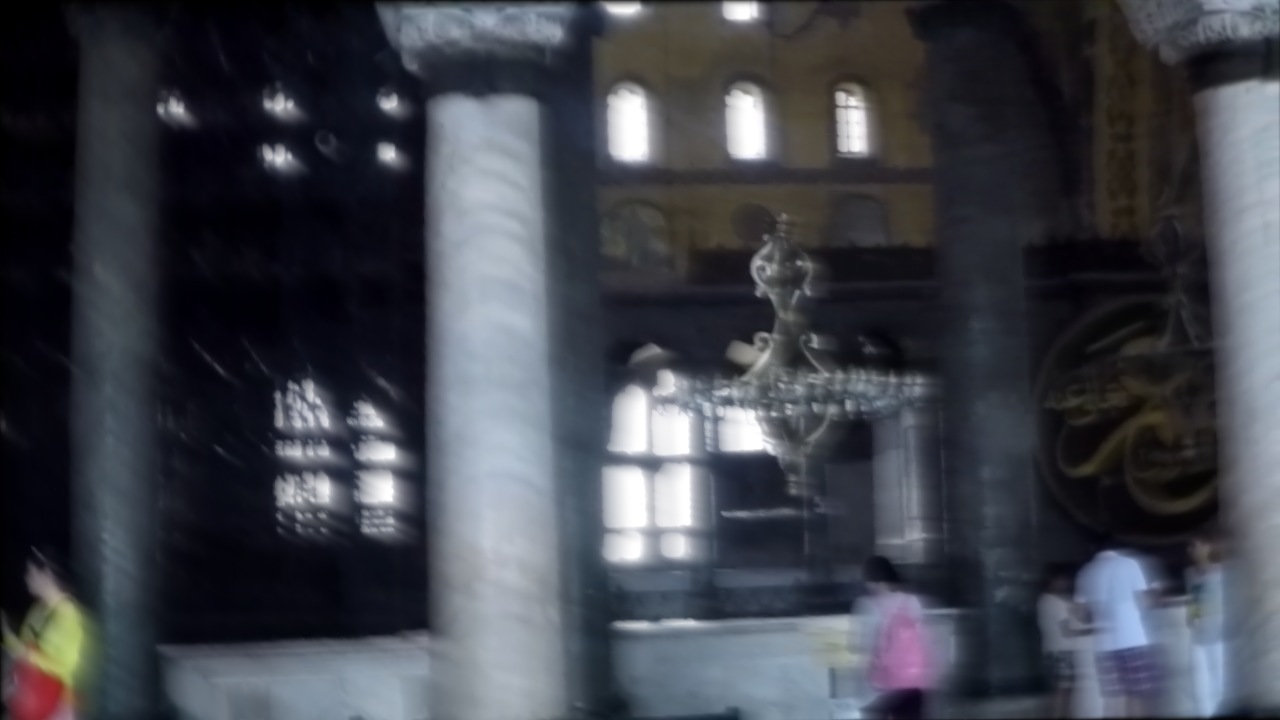
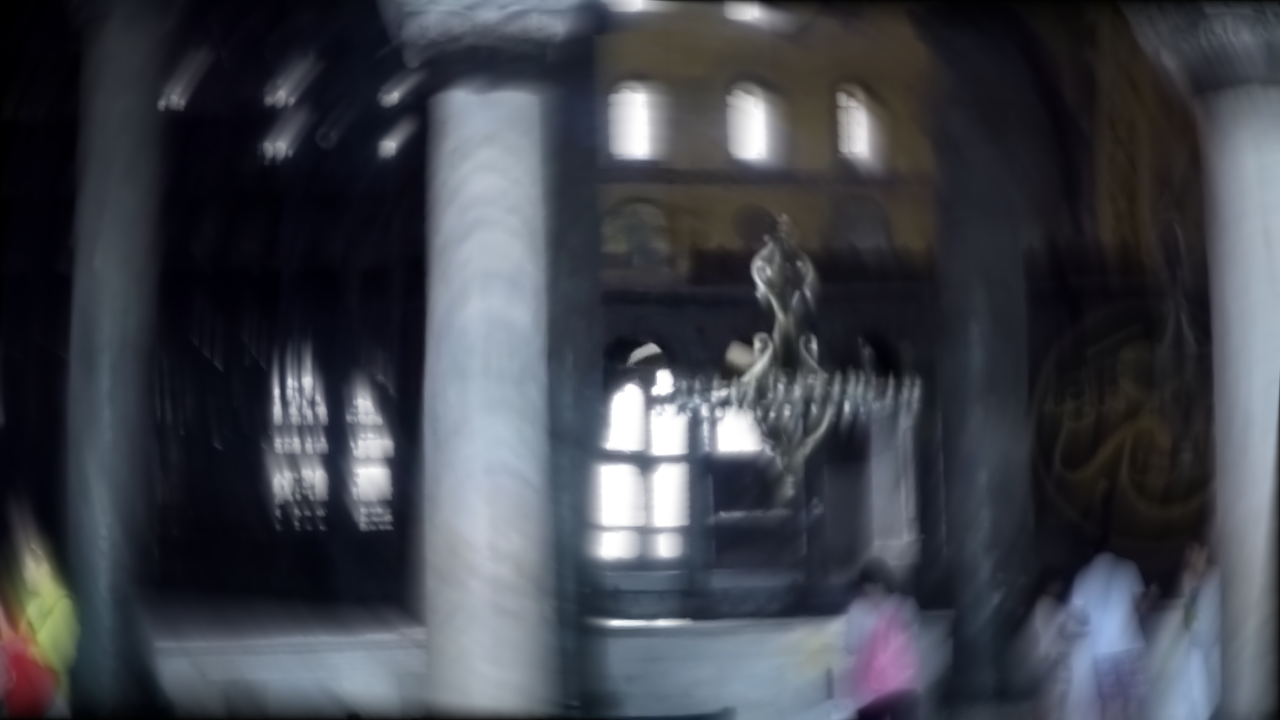
add rotation center and noise to the blurry image (fix bugs)

diff --git a/SynIMU2Blurry.py b/SynIMU2Blurry.py
@@ -401,7 +401,7 @@ class SynImages(object):
         :param shift_blurry: (3, H, W)
         :return: error_blur_img with the same size
         """
-        std_r = np.random.uniform(low=0.05, high=0.1) * 255.0
+        std_r = np.random.uniform(low=0.05, high=0.1) * 255.0 / np.sqrt(self.pose)
         noise_img = np.random.normal(loc=0, scale=std_r, size=shift_blurry.shape)
         error_blur_img = shift_blurry + noise_img
 
